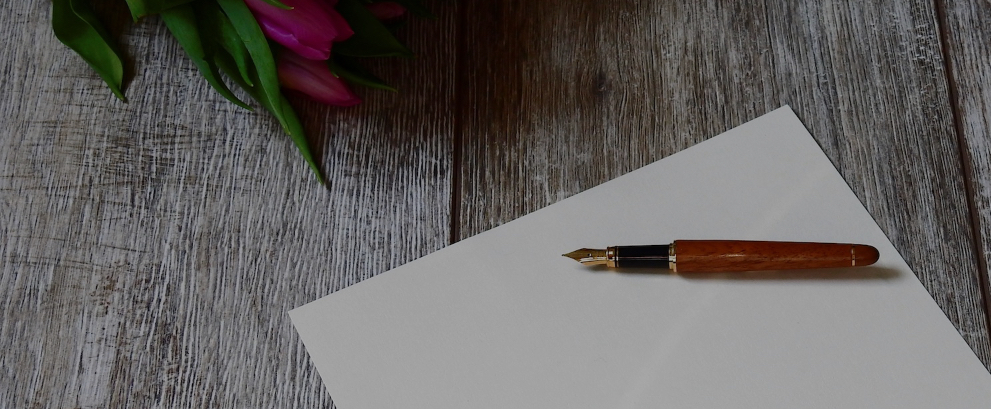
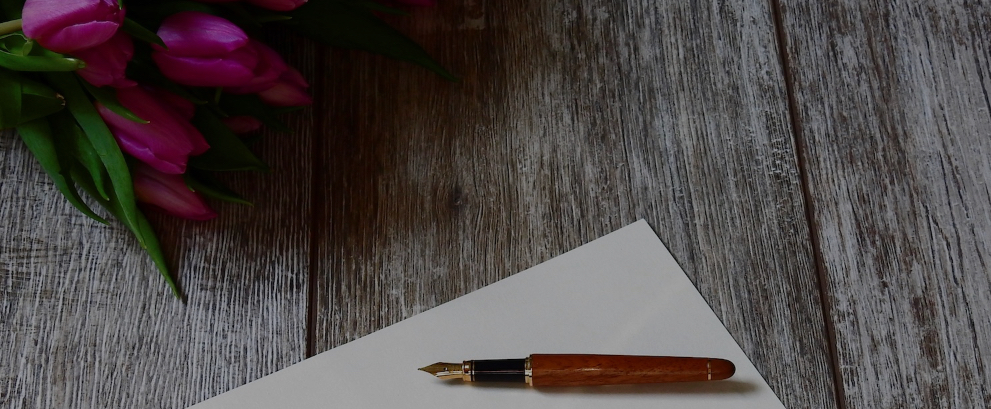
patch design

diff --git a/app/assets/stylesheets/_new.scss b/app/assets/stylesheets/_new.scss
@@ -2,7 +2,6 @@
   NEW PAGE
 \*------------------------------------*/
 
-$light-text-shadow: 0px 2px 5px rgba(0,0,0,.5);
 
 // min-width: 0px
 #new {
@@ -17,17 +16,18 @@ $light-text-shadow: 0px 2px 5px rgba(0,0,0,.5);
     .hero-headline-wrapper {
       h1 {
         color: $white;
-        text-shadow: $light-text-shadow; 
+        font-weight: bold;
 
         &::after {
           background-color: $white;
         }
       }
       p {
-        font-size: 1.5em;
-        margin-bottom: 50px;
-        text-shadow: $light-text-shadow; 
+        font-size: 20px;
+        line-height: 30px;
+        font-weight: medium;
       }
+
     }
   }
   .form-wrapper {
@@ -52,17 +52,18 @@ $light-text-shadow: 0px 2px 5px rgba(0,0,0,.5);
     .email{
       @include placeholder-color($gray-lightest);
       text-indent: 10px;
-      border: 1px solid $green;
+      border: 1px solid $gray-lightest;
       width: 100%;
       height: 40px;
-      font-size: 20px;
+      font-size: 17px;
       margin: 50px 0 0 0;
       border-radius: 0;
     }
     .submit{
       width: 100%;
       height: 50px;
-      background-color: $green;
+      background-color: $red;
+      color: $white;
       margin: 15px 0 60px 0;
       text-transform: uppercase;
       border: 0;
@@ -91,11 +92,12 @@ $light-text-shadow: 0px 2px 5px rgba(0,0,0,.5);
       }
       .hero-headline-wrapper {
         h1 {
-          font-size: 42px;
+          font-size: 40px;
         }
         p {
-          font-size: 20px;
-          line-height: 27px;
+          font-size: 23px;
+          line-height: 30px;
+          font-weight: medium;
         }
       }
     }
@@ -125,10 +127,15 @@ $light-text-shadow: 0px 2px 5px rgba(0,0,0,.5);
 @media only screen and (min-width: $desktop) {
   #new {
     .hero {
-      background-image: image-url("new/header-bg-desktop.jpg");
+      background-image: image-url("new/header-bg-tablet.jpg");
       .hero-headline-wrapper {
-        width: 425px;
+        width: 525px;
+        
+        h1 {
+          font-size: 52px;
+        }
         p {
+          font-weight: bold;
           margin-bottom: 70px;
         }
       }

diff --git a/app/assets/stylesheets/_variables.scss b/app/assets/stylesheets/_variables.scss
@@ -13,6 +13,7 @@ $gray-lightest-shadow:  rgba(203,202,202, 0.75);
 $gray-lighter:          #F6F6F5;
 $gray-medium:           #979797;
 $green:                 #BCE183;
+$red:                   #FF4E4E;
 $brand-primary:         #333de4;
 
 /*------------------------------------*\
